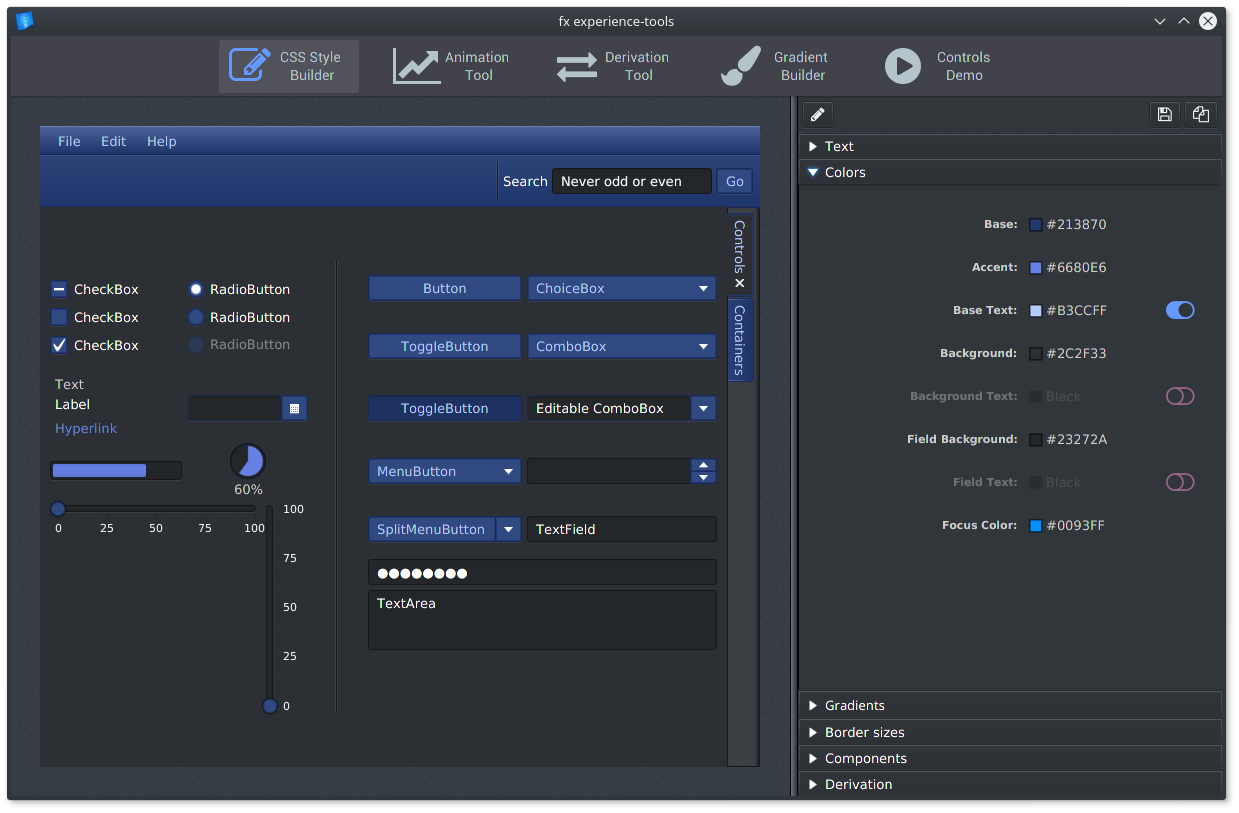
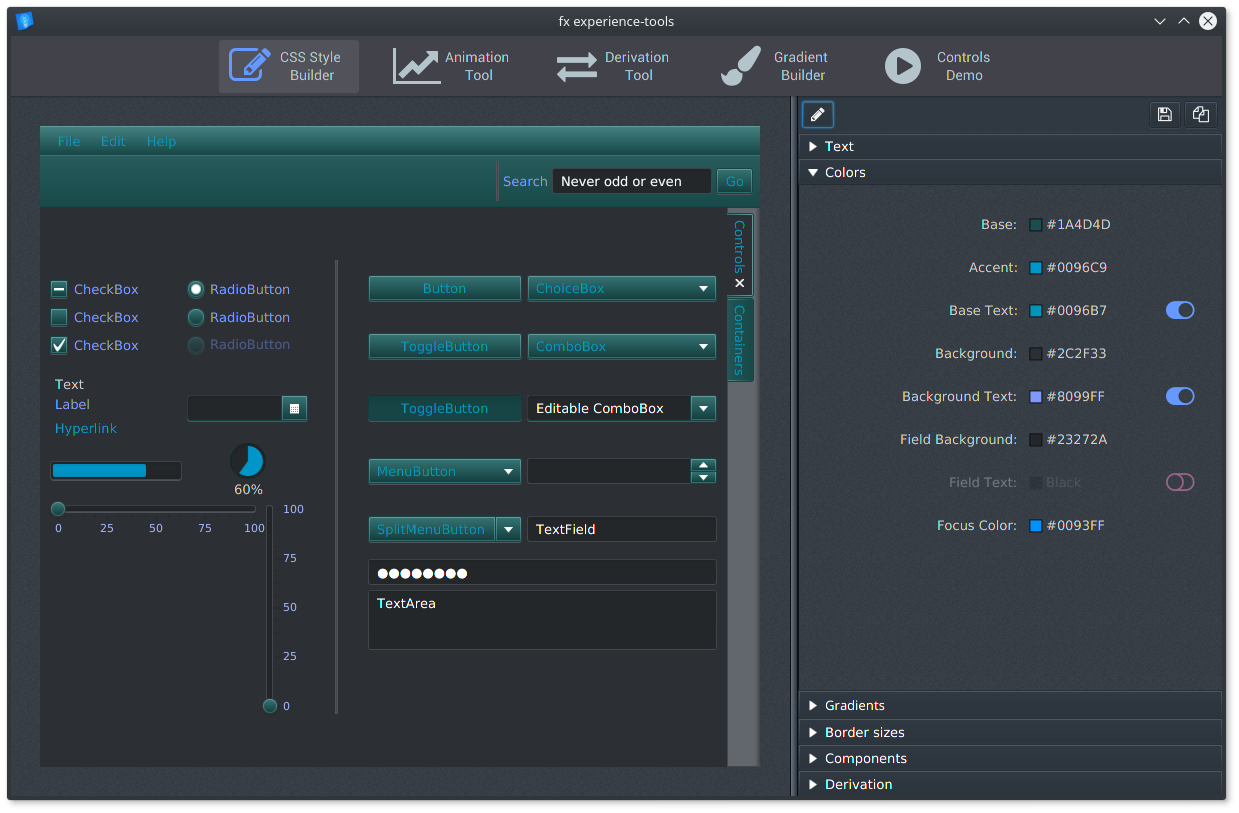
medium: styling changes

diff --git a/fxtools/src/main/resources/styles/stylecontroller.css b/fxtools/src/main/resources/styles/stylecontroller.css
@@ -11,18 +11,22 @@ and open the template in the editor.
     -fx-background-color: #404952;
     -fx-background-image: url("../images/primary_bg.png");
 }
+.titled-pane:expanded .content,
+.titled-pane:collapsed .content {
+    -fx-background-color: transparent;
+}
 #Preview-Alpha {
     -fx-background-image: url("../images/chequers.png");
     -fx-background-color: #FFF;
 }
 .button-hbox {
-     -fx-background-color: #31363b;
+     -fx-background-color: #303942;
 }
 .prop-label {
     -fx-font-family: OpenSans-Regular;
     -fx-text-fill: #CCC;
-    -fx-font-size: 0.833333em;
-    -fx-font-weight: bold;
+    -fx-font-size: 1em;
+
 }
 .color-picker {
     -fx-background-color: transparent; 
@@ -78,8 +82,8 @@ and open the template in the editor.
     -fx-text-fill: #fcb215;
 }
 .row-title-hbox {
-        -fx-background-color: #41424a;
-          -fx-border-color: #232629;
+        -fx-background-color: #30394266;
+          -fx-border-color: derive(#303942, -22%);
     -fx-border-width: 1px;
 }
 

diff --git a/fxtools/src/main/resources/styles/main.css b/fxtools/src/main/resources/styles/main.css
@@ -1,8 +1,8 @@
 .root{
-    -fx-base: #31363b;
+    -fx-base: #303942;
     -fx-background: #31363b;
     -fx-focus-color: #3073b4;
-    -fx-control-inner-background: #232629;
+    -fx-control-inner-background: derive(-fx-base, -20%);
     -fx-inner-border: linear-gradient(to bottom,
         derive(-fx-color,30%) 0%,
         derive(-fx-color,-5%) 100%);

diff --git a/fxtools/src/main/java/com/fxexperience/tools/controllers/StyleController.java b/fxtools/src/main/java/com/fxexperience/tools/controllers/StyleController.java
@@ -48,25 +48,20 @@ public class StyleController extends VBox {
     @FXML private TitledPane textTitlePane;
     @FXML private BorderPane previewPane;
     @FXML private StackPane editorPane;
-  
     @FXML private ComboBox<Gradient> gradientComboBox;
-
-    @FXML private Slider paddingSlider, borderWidthSlider, borderRadiusSlider, topHighlightSlider;
-    @FXML private Slider bottomHighlightSlider, bodyTopSlider, bodyTopMiddleSlider, bodyBottomMiddleSlider;
-    @FXML private Slider bodyBottomSlider, borderSlider, shadowSlider, inputBorderSlider;
-
-    @FXML private DoubleTextField paddingTextField, borderWidthTextField, borderRadiusTextField;
+    @FXML private PaintPicker pp_base, pp_accent, pp_background, pp_txt_base,
+                  pp_txt_bg, pp_cntrl_inner_bg, pp_txt_inner_bg, pp_focus;
     
-    @FXML 
-    private CheckBox cb_txt_base, cb_txt_bg, cb_txt_inner_bg,
-            cb_border, cb_shadow, cb_input_border, cb_top_mid, cb_bottom_mid;
-
-    @FXML
-    private Label lbl_txt_base, lbl_txt_bg, lbl_txt_inner_bg;
- 
-    @FXML
-    private PaintPicker pp_base, pp_accent, pp_background, pp_txt_base,
-            pp_txt_bg, pp_cntrl_inner_bg, pp_txt_inner_bg, pp_focus;
+    @FXML private CheckBox cb_txt_base, cb_txt_bg, cb_txt_inner_bg,
+                  cb_border, cb_shadow, cb_input_border, cb_top_mid, cb_bottom_mid;
+    
+    @FXML private Slider sl_padding, sl_border_width, sl_border_radius, sl_top_hlight,
+                  sl_bottom_hlight, sl_top_body, sl_top_mid_body, sl_bottom_mid_body,
+                  sl_bottom_body, sl_border, sl_shadow, sl_input_border;
+   
+    @FXML private Label lbl_txt_base, lbl_txt_bg, lbl_txt_inner_bg;
+    
+    @FXML private DoubleTextField paddingTextField, borderWidthTextField, borderRadiusTextField;
 
     private final FontPickerController font = new FontPickerController();
     private final EditorController editor = new EditorController();
@@ -98,9 +93,9 @@ public class StyleController extends VBox {
         previewPane.setCenter(previewer);
         
         // create Integer Fields
-        addTextFieldBinding(paddingSlider, paddingTextField);
-        addTextFieldBinding(borderWidthSlider, borderWidthTextField);
-        addTextFieldBinding(borderRadiusSlider, borderRadiusTextField);
+        addTextFieldBinding(sl_padding, paddingTextField);
+        addTextFieldBinding(sl_border_width, borderWidthTextField);
+        addTextFieldBinding(sl_border_radius, borderRadiusTextField);
         
         pp_base.setValue(Color.web("#213870"));
         pp_accent.setValue(Color.web("#0096C9"));
@@ -124,19 +119,12 @@ public class StyleController extends VBox {
            // Font choice box
         font.fontProperty().addListener(o -> createCSS());
 
-        editorPane.visibleProperty().addListener((observable, oldValue, newValue) -> {
-            if(newValue == true) {
-                 setCodeAreaText();
-            }
-        });
-        
            // Disabled properties
-        bodyTopMiddleSlider.disableProperty().bind(cb_top_mid.selectedProperty().not());
-        bodyBottomMiddleSlider.disableProperty().bind(cb_bottom_mid.selectedProperty().not());
-        borderSlider.disableProperty().bind(cb_border.selectedProperty().not());
-        shadowSlider.disableProperty().bind(cb_shadow.selectedProperty().not());
-        inputBorderSlider.disableProperty().bind(cb_input_border.selectedProperty().not());
-
+        sl_top_mid_body.disableProperty().bind(cb_top_mid.selectedProperty().not());
+        sl_bottom_mid_body.disableProperty().bind(cb_bottom_mid.selectedProperty().not());
+        sl_border.disableProperty().bind(cb_border.selectedProperty().not());
+        sl_shadow.disableProperty().bind(cb_shadow.selectedProperty().not());
+        sl_input_border.disableProperty().bind(cb_input_border.selectedProperty().not());
      
         lbl_txt_base.disableProperty().bind(cb_txt_base.selectedProperty().not());
         lbl_txt_bg.disableProperty().bind(cb_txt_bg.selectedProperty().not());
@@ -172,17 +160,23 @@ public class StyleController extends VBox {
             return cell;
         });
         
+        editorPane.visibleProperty().addListener((observable, oldValue, newValue) -> {
+            if(newValue == true) {
+                 setCodeAreaText();
+            }
+        });
+        
         createCSS();
     }
     
     private void onGradientSelection(ObservableValue<? extends Object> observable, Gradient oldValue, Gradient newValue) {
-        bodyTopSlider.setValue(newValue.getTopDerivation());
-        bodyBottomSlider.setValue(newValue.getBottomDerivation());
+        sl_top_body.setValue(newValue.getTopDerivation());
+        sl_bottom_body.setValue(newValue.getBottomDerivation());
         if (newValue.isShinny()) {
             cb_top_mid.setSelected(true);
             cb_bottom_mid.setSelected(true);
-            bodyTopMiddleSlider.setValue(newValue.getTopMidDerivation());
-            bodyBottomMiddleSlider.setValue(newValue.getBottomMidDerivation());
+            sl_top_mid_body.setValue(newValue.getTopMidDerivation());
+            sl_bottom_mid_body.setValue(newValue.getBottomMidDerivation());
         } else {
             cb_top_mid.setSelected(false);
             cb_bottom_mid.setSelected(false);
@@ -191,12 +185,12 @@ public class StyleController extends VBox {
     }
     
      private void onGradientChange() {
-        innerTopDerivation.set(bodyTopSlider.getValue()
-                + (100 - bodyTopSlider.getValue()) 
-                * (topHighlightSlider.getValue() / 100));
-        innerBottomDerivation.set(bodyBottomSlider.getValue()
-                + (100 - bodyBottomSlider.getValue()) 
-                * (bottomHighlightSlider.getValue() / 100));
+        innerTopDerivation.set(sl_top_body.getValue()
+                + (100 - sl_top_body.getValue()) 
+                * (sl_top_hlight.getValue() / 100));
+        innerBottomDerivation.set(sl_bottom_body.getValue()
+                + (100 - sl_bottom_body.getValue()) 
+                * (sl_bottom_hlight.getValue() / 100));
         createCSS();
     }
     
@@ -255,29 +249,29 @@ public class StyleController extends VBox {
         cssBuffer.append("derive(-fx-color,").append(df.format(innerBottomDerivation.get())).append("%) 100%);\n  ");
 
         cssBuffer.append("-fx-body-color: linear-gradient( to bottom,\n  ");
-        cssBuffer.append("  derive(-fx-color, ").append(df.format(bodyTopSlider.getValue())).append("%) 0%,\n  ");
+        cssBuffer.append("  derive(-fx-color, ").append(df.format(sl_top_body.getValue())).append("%) 0%,\n  ");
        
         if (cb_top_mid.isSelected()) {
             cssBuffer.append("  derive(-fx-color, ")
-                     .append(df.format(bodyTopMiddleSlider.getValue())).append("%) 50%,\n  ");
+                     .append(df.format(sl_top_mid_body.getValue())).append("%) 50%,\n  ");
         }
         if (cb_bottom_mid.isSelected()) {
             cssBuffer.append("  derive(-fx-color, ")
-                     .append(df.format(bodyBottomMiddleSlider.getValue())).append("%) 50.5%,\n  ");
+                     .append(df.format(sl_bottom_mid_body.getValue())).append("%) 50.5%,\n  ");
         }        
-        cssBuffer.append("  derive(-fx-color, ").append(df.format(bodyBottomSlider.getValue())).append("%) 100%);\n  ");
+        cssBuffer.append("  derive(-fx-color, ").append(df.format(sl_bottom_body.getValue())).append("%) 100%);\n  ");
 
         if (cb_border.isSelected()) {
             cssBuffer.append("-fx-outer-border: derive(-fx-color, ")
-                     .append(df.format(borderSlider.getValue())).append("%);\n  ");
+                     .append(df.format(sl_border.getValue())).append("%);\n  ");
         }
         if (cb_shadow.isSelected()) {
             cssBuffer.append("-fx-shadow-highlight-color: derive(-fx-background,")
-                     .append(df.format(shadowSlider.getValue())).append("%);\n  ");
+                     .append(df.format(sl_shadow.getValue())).append("%);\n  ");
         }
         if (cb_input_border.isSelected()) {
             cssBuffer.append("-fx-text-box-border: derive(-fx-background,")
-                     .append(df.format(inputBorderSlider.getValue())).append("%);\n");
+                     .append(df.format(sl_input_border.getValue())).append("%);\n");
         }
 
         cssBuffer.append("}\n");

diff --git a/fxtools/src/main/java/com/fxexperience/tools/app/MainApp.java b/fxtools/src/main/java/com/fxexperience/tools/app/MainApp.java
@@ -19,12 +19,14 @@ import java.util.ResourceBundle;
 
 import static com.fxexperience.tools.util.AppPaths.RESOURCE_BUNDLE;
 import javafx.scene.text.Font;
+import org.fxmisc.cssfx.CSSFX;
 
 public class MainApp extends Application {
 
     @Override
     public void start(Stage stage) throws IOException {
-       
+        CSSFX.start();
+        
         // Load custom fonts used in css stylesheet
         Font.loadFont(MainApp.class.getResource("/fonts/OpenSans-Regular.ttf").toExternalForm(), 10);
         Font.loadFont(MainApp.class.getResource("/fonts/FiraCode-Regular.ttf").toExternalForm(), 10);
